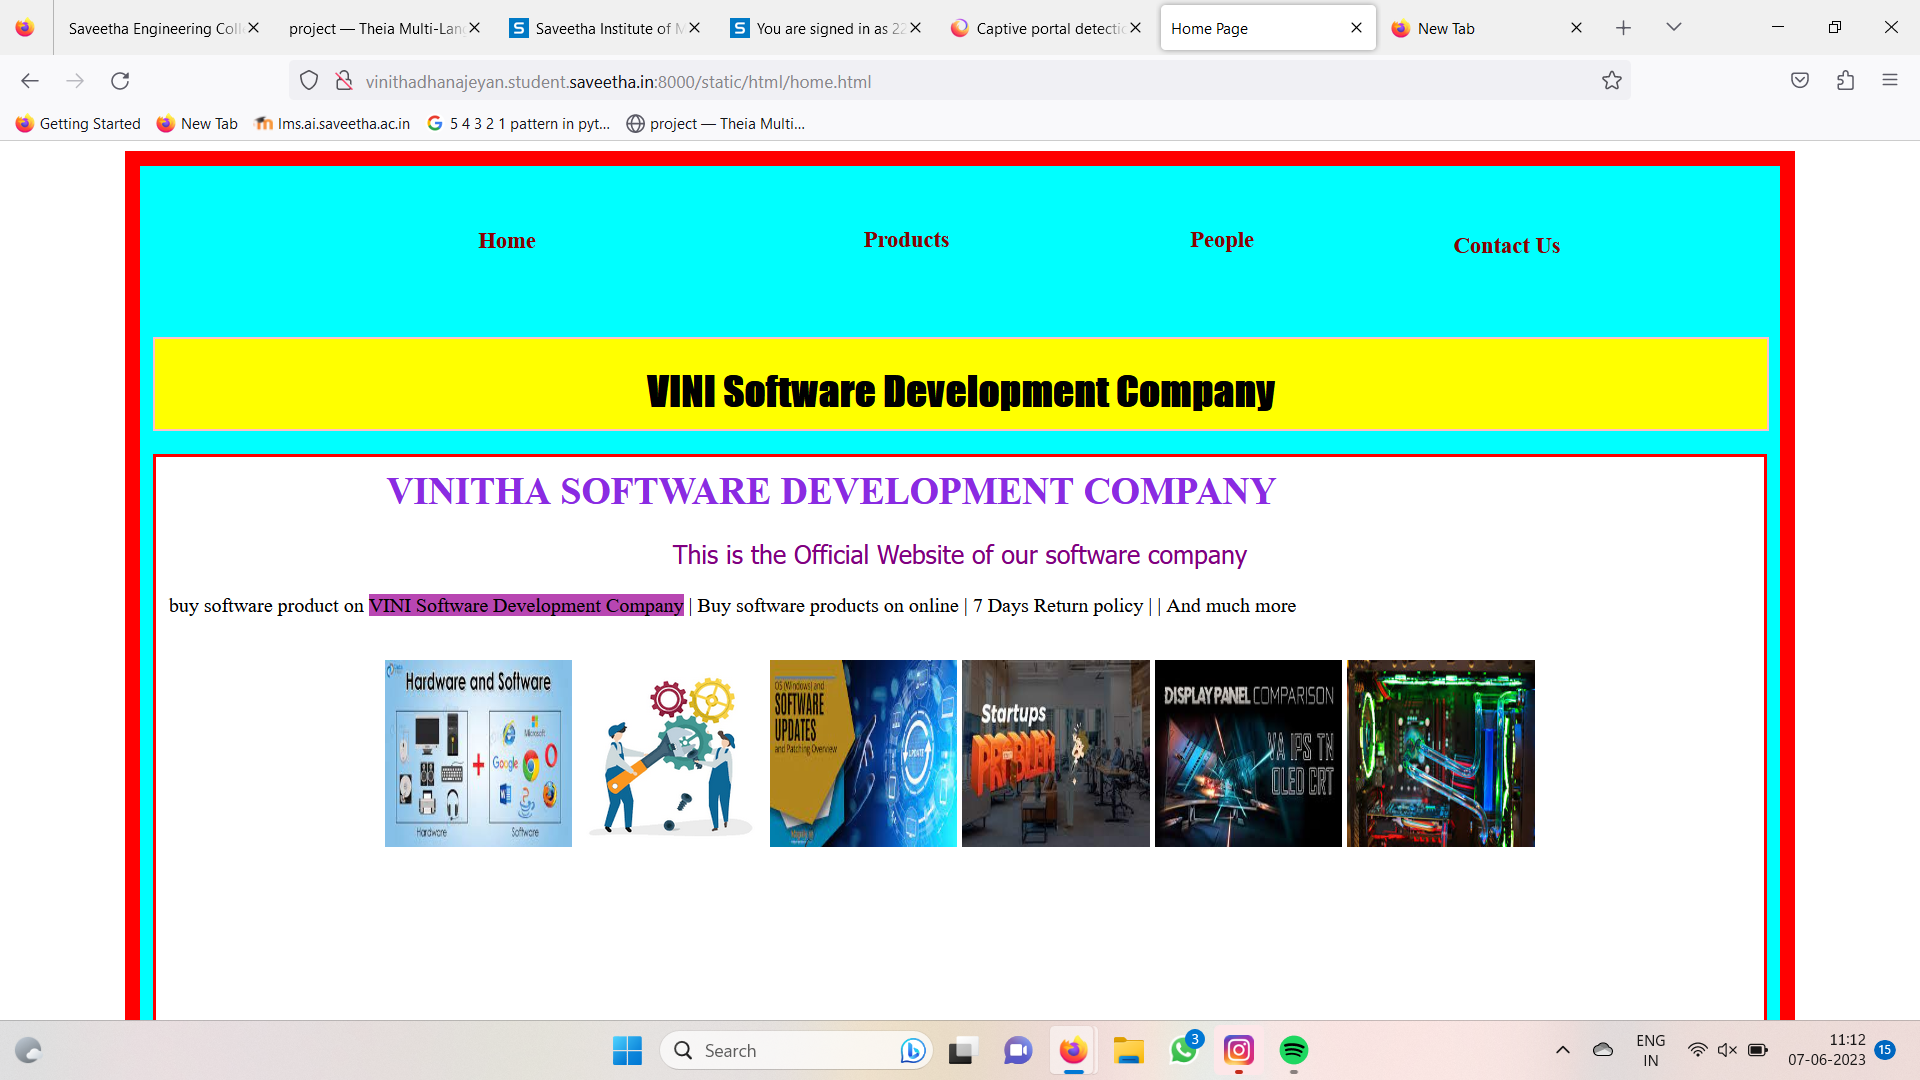
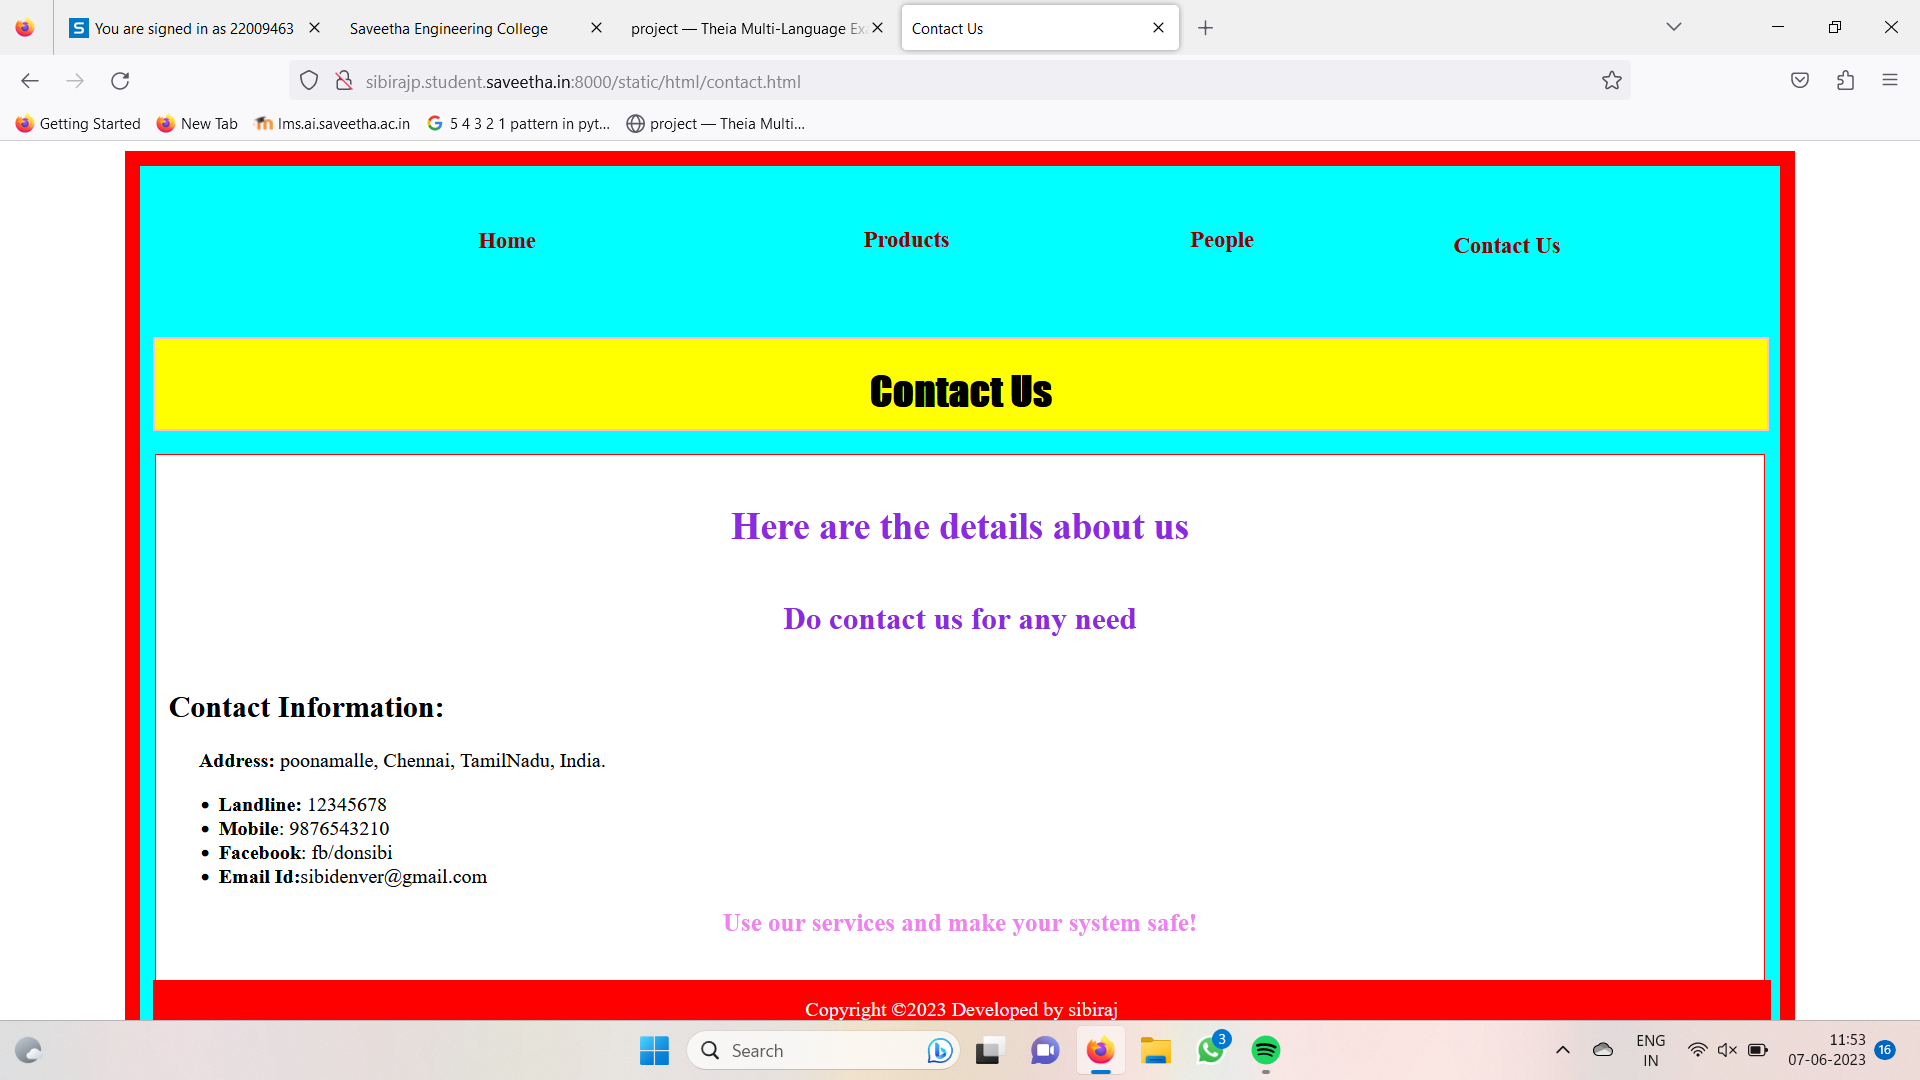
SUCCESS

diff --git a/myweb/static/html/home.html b/myweb/static/html/home.html
@@ -40,14 +40,14 @@
                     </div>
                 </header>
                 <div class="title">
-                    <h1>VINI Software Development Company</h1>
+                    <h1> SIBIRAJ Software Development Company</h1>
                 </div><br>
                 <div class="content">
                     <div class="text">
-                    <marquee><b>VINITHA SOFTWARE DEVELOPMENT COMPANY</b></marquee>
+                    <marquee><b>SIBIRAJ SOFTWARE DEVELOPMENT COMPANY</b></marquee>
                     <p style="color:purple; font-family:'Tahoma'; font-size:20px;"> This is the Official Website of our software company</p>
                     </div>
-                    <p>buy software product on <span style="background-color:rgb(184, 70, 178)">VINI Software Development Company</span>
+                    <p>buy software product on <span style="background-color:rgb(184, 70, 178)">SIBI Software Development Company</span>
                          | Buy software products on online | 7 Days Return policy |  | And much more</p>
                     <br>
                 <center>
@@ -62,7 +62,7 @@
                 </div>
                 <div class="footer">
                 <footer style="color:white">
-                Copyright &copy;2023 Developed by vinitha</footer></div>
+                Copyright &copy;2023 Developed by sibiraj</footer></div>
             </div>
         </div>
     </body>
@@ -268,7 +268,7 @@ products.html
 
                 <div class="footer">
                 <footer style="color:white">
-                Copyright &copy;2023 Developed by vinitha</footer></div>
+                Copyright &copy;2023 Developed by sibiraj</footer></div>
             </div>
         </div>
     </body>

diff --git a/myweb/static/html/people.html b/myweb/static/html/people.html
@@ -34,7 +34,7 @@
             margin-right:auto;
         }
         .ceoph{
-            background-image: url(/static/image/p1.jpg);
+            background-image: url(/static/image/p4.jpg);
             background-size: 250px;
             background-position-x: center;
             background-repeat: no-repeat;
@@ -177,7 +177,7 @@
                     <h4><u>Chairman</u></h4>
                     </div>
                     <div class="ceoph"></div>
-                    <div class="ceo"><p align="center"><b><h2>vinitha</h2></b></div>
+                    <div class="ceo"><p align="center"><b><h2>sibiraj</h2></b></div>
                     <br>
                     <div class="text">
                         <p><b><u>Head executives</u></b></p><br>
@@ -189,7 +189,7 @@
                     <br>
                     <div class="text"><p><b><u>Managers</u></b></p></div><br>
                     <div class="amph1"></div>
-                    <div class="am1"><p align="center"><b><h2>sibiraj</h2></b></p></div>
+                    <div class="am1"><p align="center"><b><h2>vinitha</h2></b></p></div>
                     <div class="amph2"></div>
                     <div class="am2"><p align="center"><b><h2>Aadhithya</h2></b></p></div>
                     <div class="amph3"></div>
@@ -198,7 +198,7 @@
                 </div>
                 <div class="footer">
                 <footer style="color:white">
-                Copyright &copy;2023 Developed by vinitha</footer></div>
+                Copyright &copy;2023 Developed by sibiraj</footer></div>
             </div>
         </div>
     </body>

diff --git a/myweb/static/html/contact.html b/myweb/static/html/contact.html
@@ -51,15 +51,15 @@
                     <ul>
                         <li><b>Landline:</b> 12345678</li>
                         <li><b>Mobile</b>: 9876543210</li>
-                        <li><b>Facebook</b>: fb/deepsfancy</li>
-                        <li><b>Email Id:</b>vinithanaidu51@gmail.com</li>
+                        <li><b>Facebook</b>: fb/donsibi</li>
+                        <li><b>Email Id:</b>sibidenver@gmail.com</li>
                     </ul>
                     <div style="text-align: center;color:violet;font-size:20px;"><b>Use our services and make your system safe!</b></div>
 
                 </div>
                 <div class="footer">
                 <footer style="color:white">
-                Copyright &copy;2023 Developed by vinitha</footer></div>
+                Copyright &copy;2023 Developed by sibiraj</footer></div>
             </div>
         </div>
     </body>

diff --git a/myweb/static/html/products.html b/myweb/static/html/products.html
@@ -197,7 +197,7 @@
 
                 <div class="footer">
                 <footer style="color:white">
-                Copyright &copy;2023 Developed by vinitha</footer></div>
+                Copyright &copy;2023 Developed by sibiraj</footer></div>
             </div>
         </div>
     </body>
